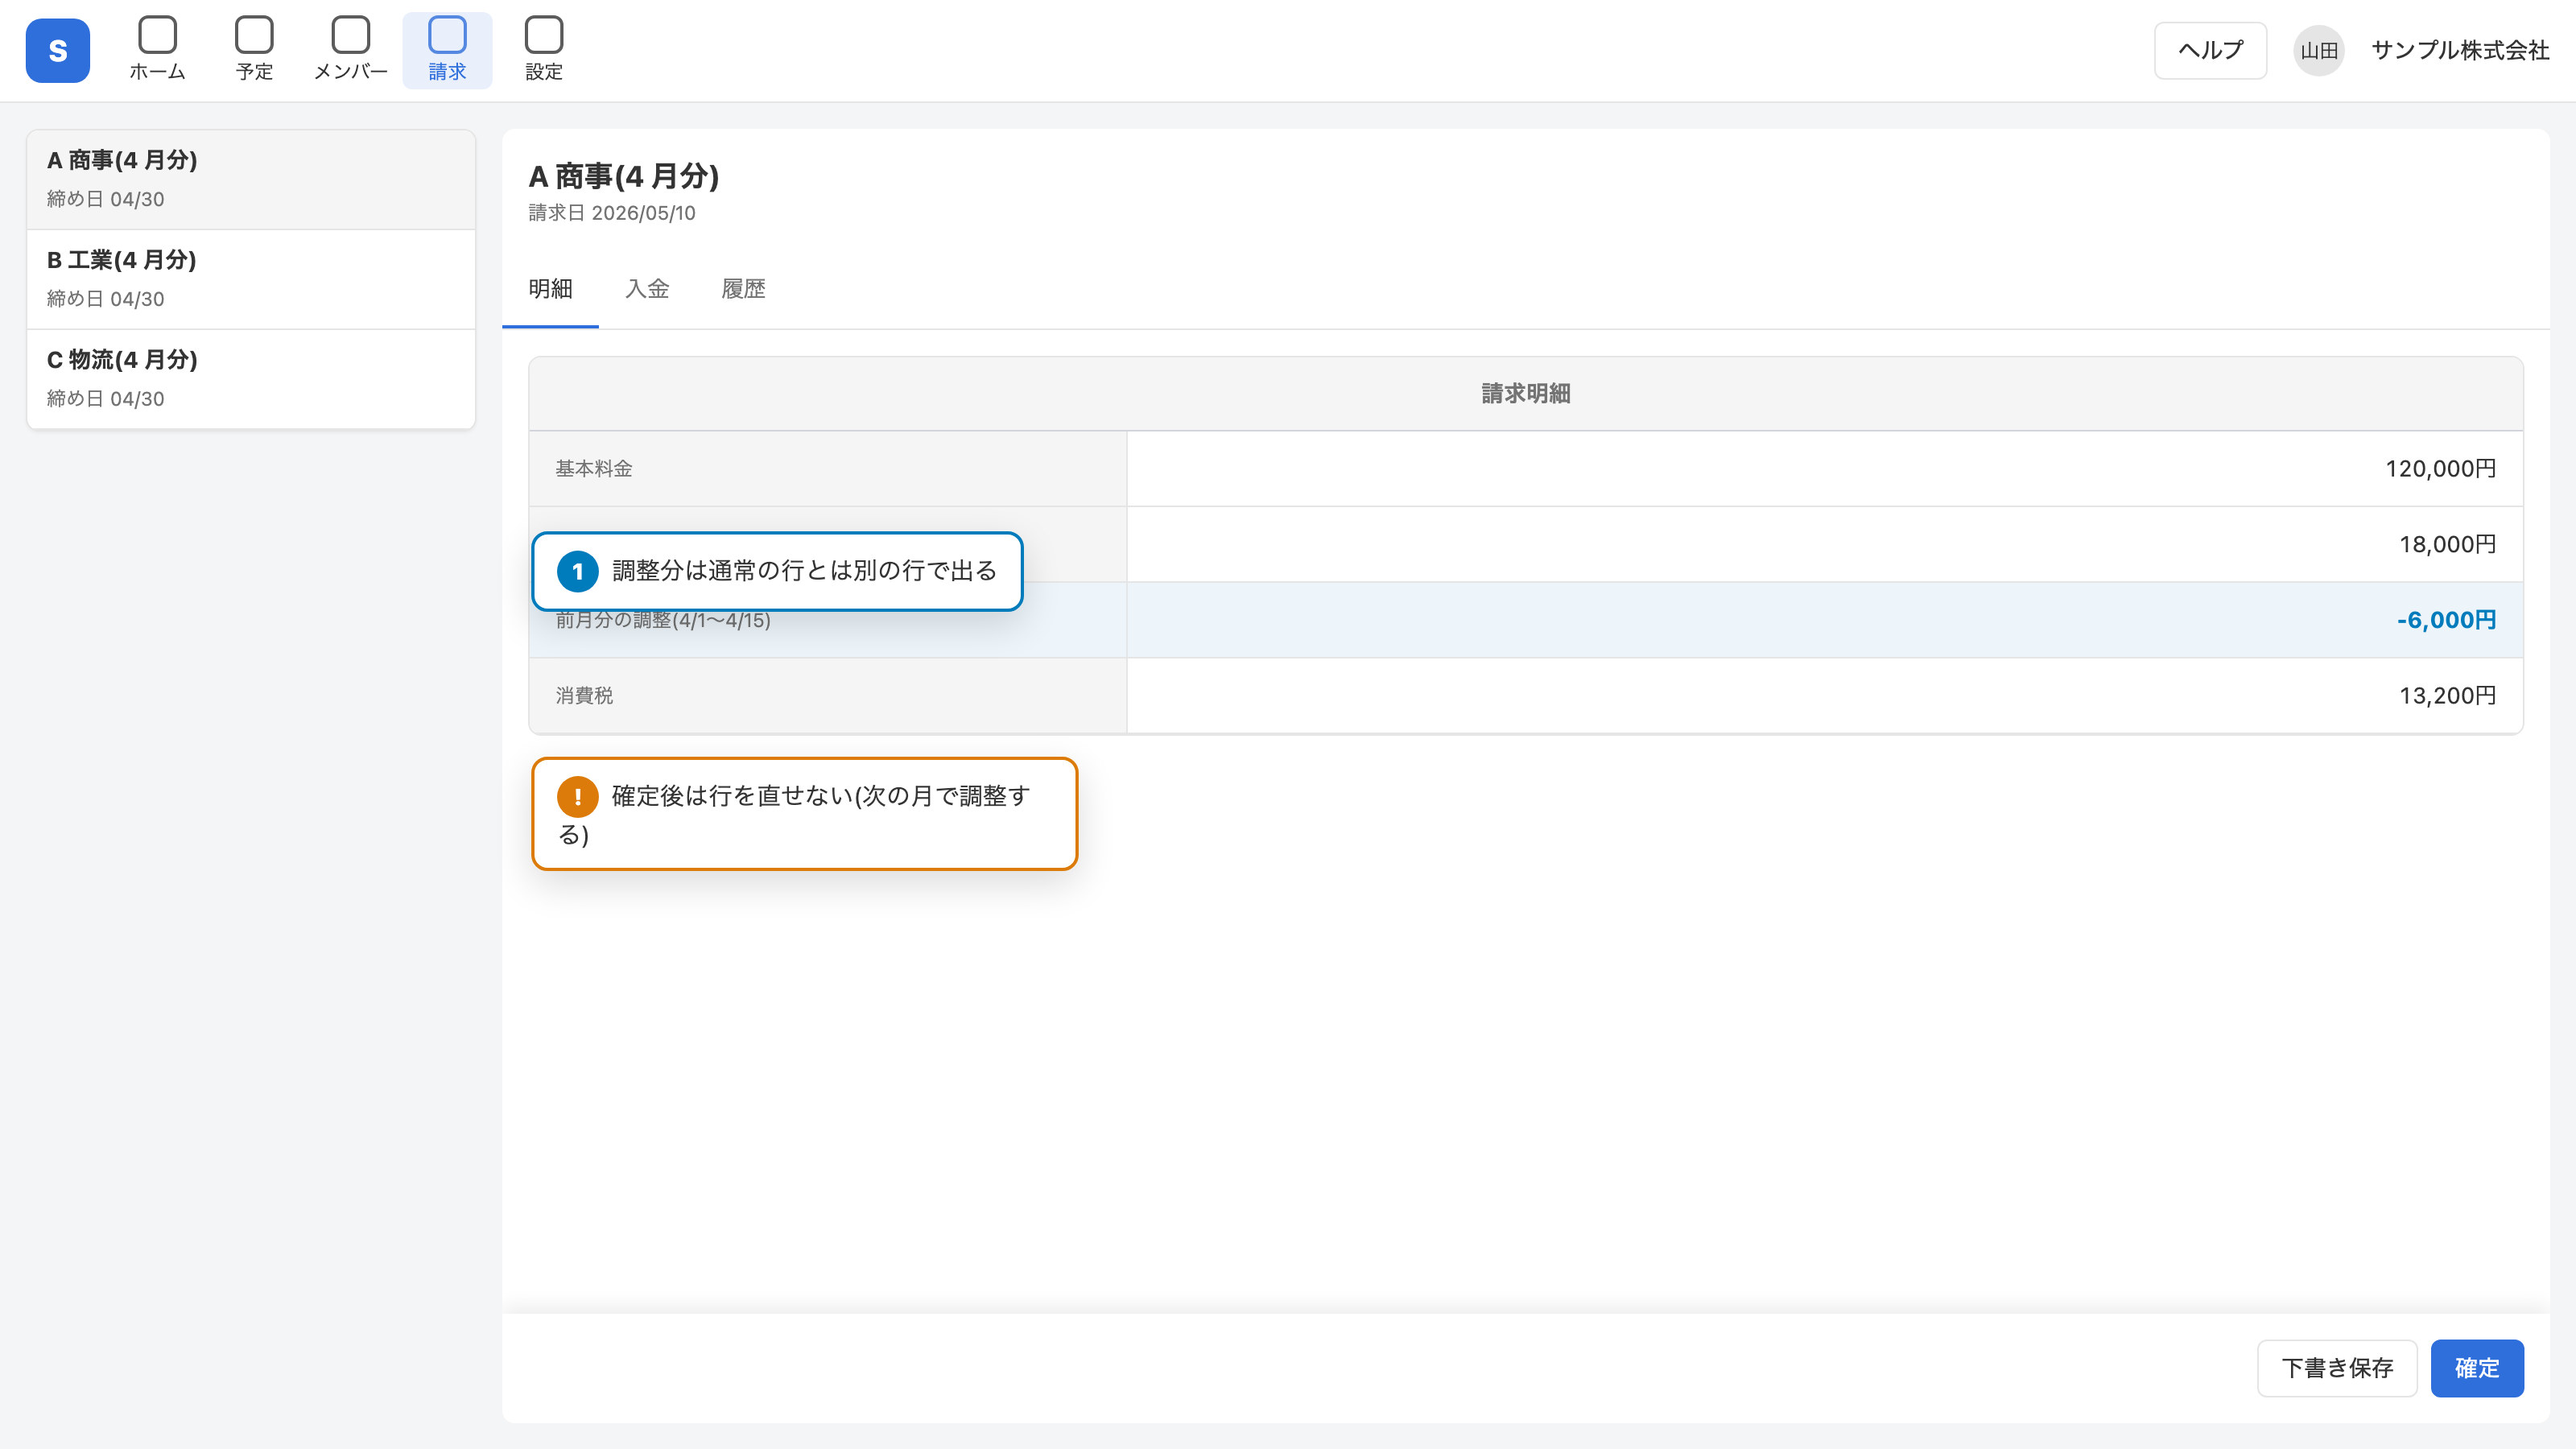
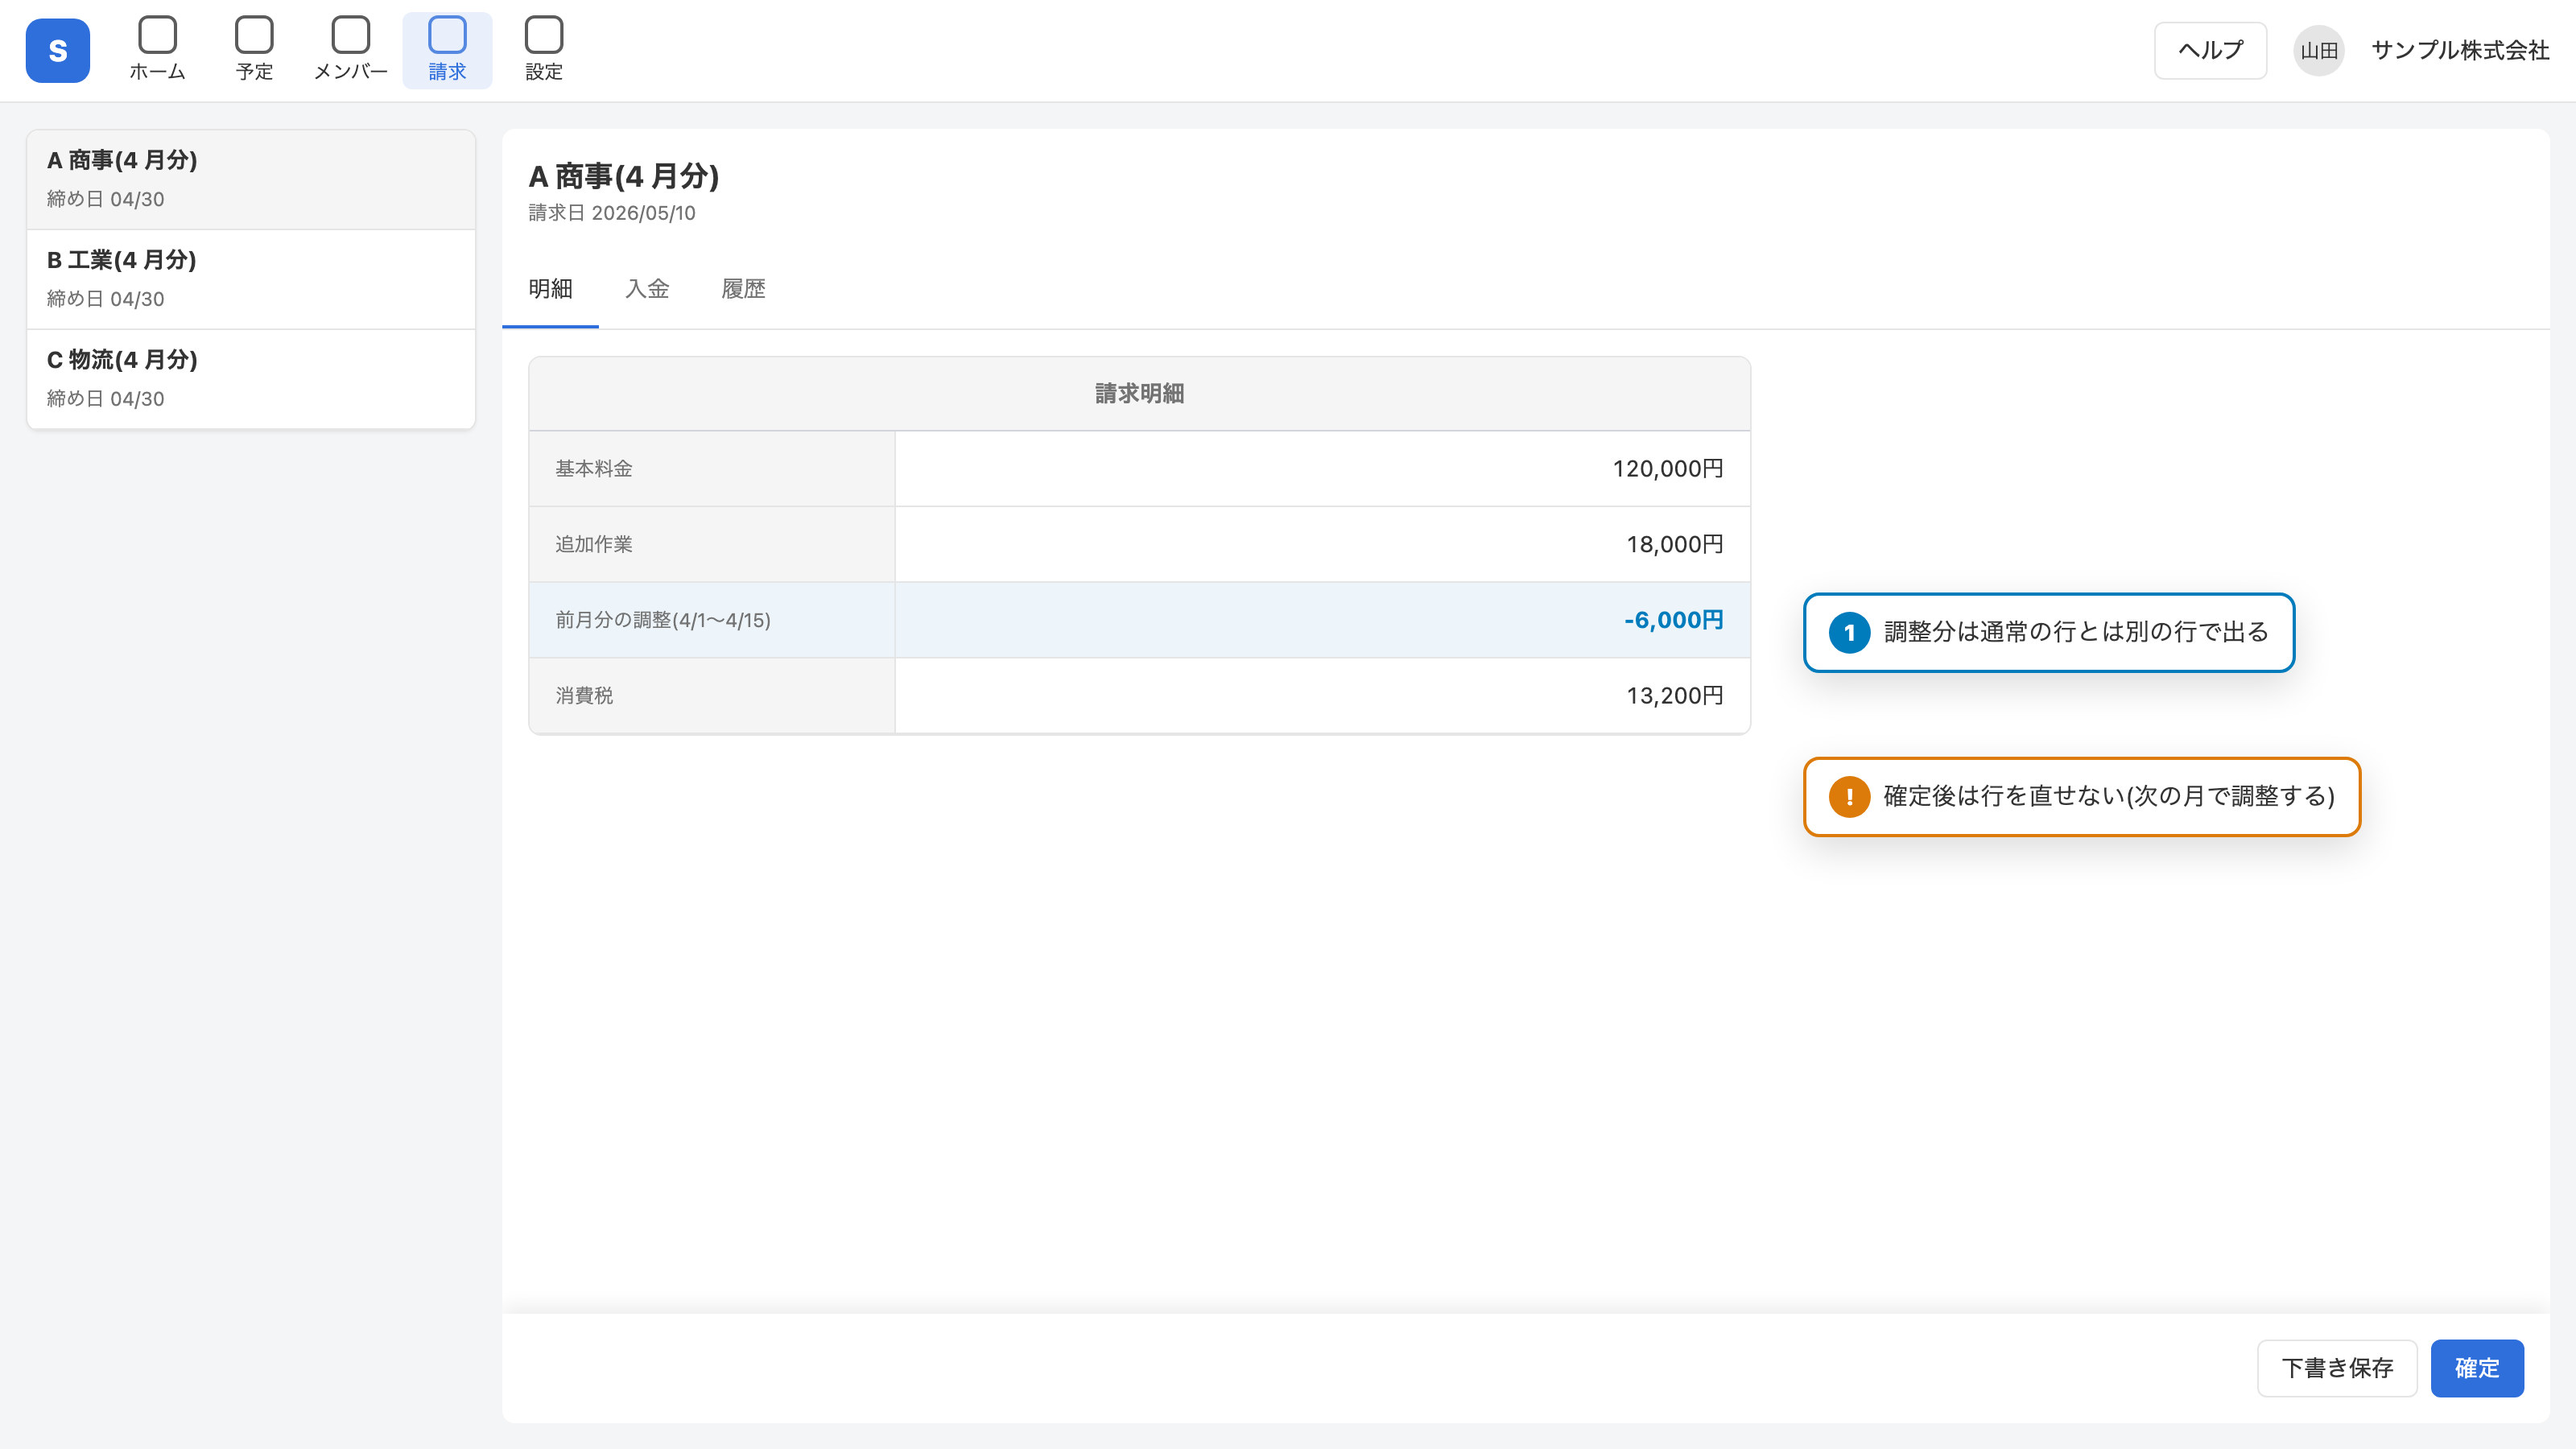
claude: onepager-artifact の吹き出しが明細行に重ならないよう修正
表の幅を絞って右に余白を作り、吹き出しを指す行と同じ高さに移動。
同じ直し方を SKILL.md の勘所にも書いた。

Claude-Session: https://claude.ai/code/session_01Bi8Z8rgU9GpJETuQKGySLz

diff --git a/.claude/skills/onepager-artifact/examples/mock_app_screen.html b/.claude/skills/onepager-artifact/examples/mock_app_screen.html
@@ -6,7 +6,7 @@
   <div style="padding:16px"><h1 style="margin:0;font-size:18px;font-weight:700">A 商事(4 月分)</h1><div style="font-size:12px;color:var(--muted)">請求日 2026/05/10</div></div>
   <div class="ptabs"><span class="on">明細</span><span>入金</span><span>履歴</span></div>
   <div style="padding:16px">
-   <div class="box"><div class="h">請求明細</div>
+   <div class="box" style="width:760px"><div class="h">請求明細</div>
     <div class="k">基本料金</div><div class="v">120,000円</div>
     <div class="k">追加作業</div><div class="v">18,000円</div>
     <div class="k new">前月分の調整(4/1〜4/15)</div><div class="v new">-6,000円</div>
@@ -16,6 +16,6 @@
   <div class="ftool"><span class="btn">下書き保存</span><span class="btn primary">確定</span></div>
  </div>
 </div>
-<div class="co" style="left:330px;top:330px;max-width:340px"><b>1</b>調整分は通常の行とは別の行で出る</div>
-<div class="co warn" style="left:330px;top:470px;max-width:340px"><b>!</b>確定後は行を直せない(次の月で調整する)</div>
+<div class="co" style="left:1120px;top:368px;max-width:380px"><b>1</b>調整分は通常の行とは別の行で出る</div>
+<div class="co warn" style="left:1120px;top:470px;max-width:380px"><b>!</b>確定後は行を直せない(次の月で調整する)</div>
 </body></html>

diff --git a/.claude/skills/onepager-artifact/SKILL.md b/.claude/skills/onepager-artifact/SKILL.md
@@ -43,7 +43,7 @@ $ARGUMENTS
 ## 図の描き方の勘所
 
 - 文字は 26〜44px、1 枚に伝えることは 1 つ。「いま / これから」の対比は左右 2 パネル(`assets/figure.css`)
-- 吹き出しは画面の主役(変わる行・入力欄)を隠さない位置に。ダイアログの右か、重要でない左パネルの上
+- 吹き出しは画面の主役(変わる行・入力欄)を隠さない位置に。表やカードが画面いっぱいに広がる画面では、モック側で幅を絞って(例: `.box{width:760px}`)右に余白を作り、吹き出しは指す行と同じ高さに置く。ダイアログは `left:42%` で右に余白ができる
 - モックの数字は整合させる(明細の合計 = 各行の和)。実装が既に持つ挙動(0 円の行を出す、根拠の Tooltip など)は再現する
 - 描画後に下端が切れていたら、ダイアログの `top` を小さくし表の padding を詰める
 
